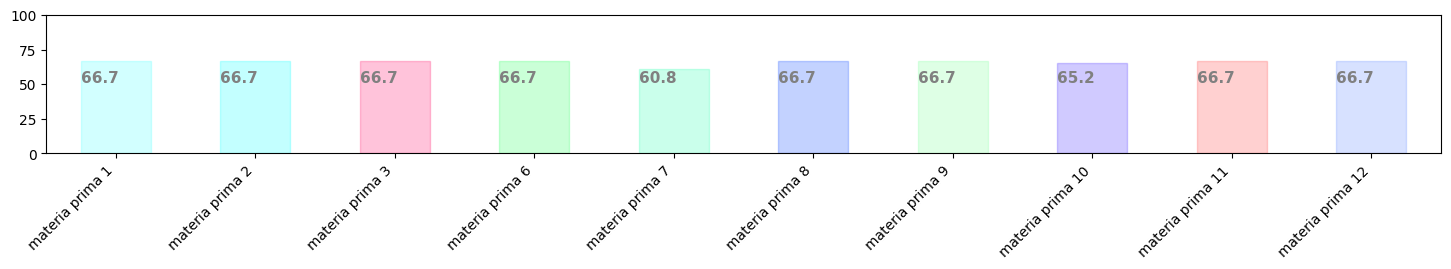
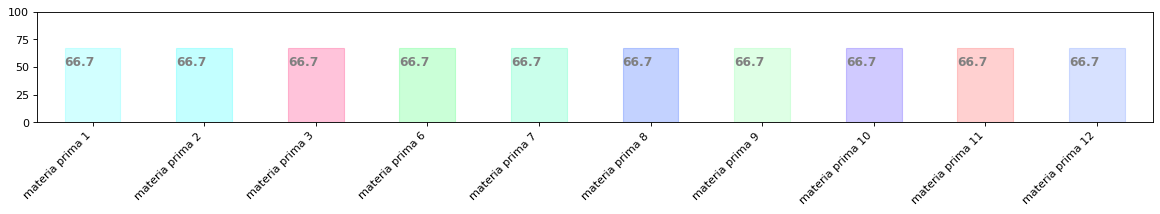
090321

diff --git a/kamaleao_kivy.py b/kamaleao_kivy.py
@@ -91,6 +91,8 @@ cursor = conn.cursor()
 conn_forms = sqlite3.connect('forms.db')
 cursor_forms = conn_forms.cursor()
 
+matplotlib.use('pdf')
+
 
 # tempo em sqlite
 # time_con =cursor_kamaleao.execute("SELECT datetime('now', 'localtime')")
@@ -160,7 +162,6 @@ class KamaleãoApp(App):
                     maxim = result[1]
                     atual = result[0]
                     tabela_update_porcento = [(atual / maxim) * 100, tabela[0]]
-                    print(tabela_update_porcento)
                     conn_kamaleao.execute("UPDATE materia_prima set porcento = ? WHERE nome = ?",
                                           tabela_update_porcento)
 
@@ -248,11 +249,10 @@ class KamaleãoApp(App):
                 formula_db = [nome_da_formula.text, formula_inteira]
                 try:
                     conn_kamaleao.execute("INSERT INTO formulas VALUES(?,?)", formula_db)
-                    result = cursor_kamaleao.execute("SELECT * FROM formulas")
-                    for f in result:
-                        print(f)
+
                 except:
-                    print("fórmula já existente")
+                    produto_ja_existente = Popup(title="Produto Já Existente",size_hint=(0.2,0.2))
+                    produto_ja_existente.open()
 
             # COMEÇO DA TELA PARA ADICIONAR UMA NOVA FÓRMULA #
 
@@ -345,7 +345,6 @@ class KamaleãoApp(App):
                 try:
                     ###### aqui a gente limpa o dict que foi transformado em str #####
                     formula_completa = cursor_kamaleao.fetchone()[1]
-                    print("aqui a gente limpa o dict que foi transformado em str ", formula_completa)
                     formula_completa = formula_completa.replace("{", '')
                     formula_completa = formula_completa.replace("}", '')
                     formula_completa = formula_completa.translate({ord("'"): None})
@@ -380,10 +379,10 @@ class KamaleãoApp(App):
                         esqueda_baixo_area_direita.add_widget(Label(text="{}   x   {}".format(i[0], i[1])))
                 except:
                     # aqui se deu ruim ainda tem que Criar uma tela pra avisar que deu.
-                    print("NOME NÃO EXISTE NO BANCO DE DADOS")
+                    produto_nao_existe = Popup(title="Produto não existe",size_hint=(0.2,0.2))
+                    produto_nao_existe.open()
 
             def produzir_func(instance):
-                print(formula_formatada)
                 # essa é a função do botão de produzir#
                 # primeira coisa que tem que fazer é declarar uma variável booleana#
                 # pra só produzir se todos os requirements forem satisfeitos
@@ -446,12 +445,9 @@ class KamaleãoApp(App):
                                 "SELECT * FROM relatorio_saida_materia_prima WHERE nome_mp = ? AND data = ?",
                                 verificar_se_ja_existe)
                             todas_infos = cursor_kamaleao.fetchall()
-                            print(todas_infos)
                             nome_mp = todas_infos[0][1]
                             quantidade = todas_infos[0][2]
-                            print("Quantidade antes: ", quantidade)
                             quantidade = todas_infos[0][2] + formula_formatada.get(i)
-                            print("Quantidade depois: ", quantidade)
                             sales_rate = todas_infos[0][3]
 
                             # ta dando erroa qui
@@ -459,14 +455,12 @@ class KamaleãoApp(App):
                             UPDATE relatorio_saida_materia_prima SET quantidade_saida = {}  WHERE nome_mp = ? AND data = ?
                             """.format(quantidade, achou), verificar_se_ja_existe)
 
-                            print("achou", achou)
                             try:
                                 cursor_kamaleao.execute(""" SELECT data,nome_mp FROM relatorio_saida_materia_prima WHERE nome_mp = ? AND data = ?
                                 ORDER BY data ASC """, verificar_se_ja_existe)
 
                                 primeira_data = [cursor_kamaleao.fetchone()[0]]
-                                print("CHEGOU AQUI")
-                                print(primeira_data)
+
 
                                 cursor_kamaleao.execute("SELECT julianday('now') - julianday(?)", primeira_data)
                                 delta = round(cursor_kamaleao.fetchone()[0], 4) - 0.72
@@ -480,7 +474,6 @@ class KamaleãoApp(App):
 
                                 sales_rate = soma / delta
 
-                                print(sales_rate)
                                 update_sales_rate = [round(sales_rate, 2), i, date]
 
                                 conn_kamaleao.execute(
@@ -490,7 +483,10 @@ class KamaleãoApp(App):
 
 
                             except Exception as e:
-                                print(e)
+                                ocorreu_um_erro = Popup(title="Ocorreu um erro.",size_hint=(0.2,0.2))
+                                ocorreu_um_erro.open()
+
+
                             # print(primeira_data)
 
 
@@ -498,16 +494,14 @@ class KamaleãoApp(App):
 
                         except:
 
-                            print(date)
+
                             tabela_pra_saleRate = [i, formula_formatada.get(i), date]
-                            print(tabela_pra_saleRate)
                             conn_kamaleao.execute("""
                             INSERT INTO relatorio_saida_materia_prima(
                             nome_mp,quantidade_saida,sales_rate,data)
                             VALUES(?,?,0,?)
                             """, tabela_pra_saleRate)
                             cursor_kamaleao.execute("SELECT * FROM relatorio_saida_materia_prima")
-                            print(cursor_kamaleao.fetchall())
 
                         esqueda_baixo_area_direita_tabela.clear()
                 else:
@@ -581,11 +575,8 @@ class KamaleãoApp(App):
         def producao_view(instance):
 
             menu.clear_widgets()
-            print(menu.size)
-            print(layout.size)
             width_calc = (layout.size[0] - 150) / 3.8
             heigt_calc = layout.size[1] / 1.73
-            print(width_calc, heigt_calc)
 
             menu_producao_layout = GridLayout(cols=3)
 
@@ -656,7 +647,8 @@ class KamaleãoApp(App):
                                                     lista_adicionar_materiaPrima_btt)
                             # conn_kamaleao.commit()
                         except:
-                            print("Nome já está no db")
+                            produto_ja_existente = Popup(title="Produto já existente",size_hint=(0.2,0.2))
+                            produto_ja_existente.open()
 
                     clr_picker = ColorPicker()
 
@@ -726,11 +718,8 @@ class KamaleãoApp(App):
                                     tabela_pro_execute[n] = "0.1"
 
                             # modificar materia prima
-                            print(tabela_pro_execute)
                             nome_pra_teste = [nome_botao]
                             cursor_kamaleao.execute("SELECT * from materia_prima WHERE nome =? ", nome_pra_teste)
-                            a = cursor_kamaleao.fetchone()
-                            print(a)
                             conn_kamaleao.execute(
                                 "UPDATE materia_prima SET estoque_maximo = ?,estoque_minimo =?,estoque_emergencial=?,"
                                 "rgb=?,estoque_atual=? WHERE nome = ?",
@@ -748,8 +737,6 @@ class KamaleãoApp(App):
                                                   tabela_update_porcento)
 
                             cursor_kamaleao.execute("SELECT * from materia_prima WHERE nome =? ", nome_pra_teste)
-                            c = cursor_kamaleao.fetchone()
-                            print(c)
                             refresh_mudar_valores()
 
                         clr_picker = ColorPicker()
@@ -912,9 +899,8 @@ class KamaleãoApp(App):
             # days_sales_inventory
 
             menu.clear_widgets()
+            menu_graficos = GridLayout(rows=2,spacing=0,padding=1,row_force_default=True, row_default_height=150)
             df = pd.read_sql_query("SELECT * from relatorios_fluxo", conn_kamaleao)
-
-            relatorios_menu_layout = GridLayout(cols=2)
 
             df.to_excel(r'teste_relatorios_fluxo.xlsx', index=False)
             # if sys.platform == "win32":
@@ -931,7 +917,6 @@ class KamaleãoApp(App):
             cursor_kamaleao.execute("SELECT * FROM materia_prima")
             tamanho = math.ceil(len(cursor_kamaleao.fetchall()) / 2)
 
-            print(tamanho)
             df = pd.read_sql_query("SELECT nome,porcento,rgb from materia_prima LIMIT {}".format(tamanho),
                                    conn_kamaleao)
             df.reset_index(drop=True, inplace=True)
@@ -940,7 +925,7 @@ class KamaleãoApp(App):
             cursor_kamaleao.execute('''SELECT rgb from materia_prima''')
             result = cursor_kamaleao.fetchall()
 
-            ax = df.plot.bar(x='nome', y='porcento', rot=0, figsize=(18, 1.8))
+            ax = df.plot.bar(x='nome', y='porcento', rot=0, figsize=(1, 10))
 
             childrenLS = ax.get_children()
             barlist = filter(lambda x: isinstance(x, matplotlib.patches.Rectangle), childrenLS)
@@ -963,11 +948,11 @@ class KamaleãoApp(App):
                 try:
                     cor = cores_pro_grafico[n]
                     i.set_color(cor)
-                    print("try:")
+
 
 
                 except Exception as e:
-                    print(e)
+                    pass
                 n += 1
 
             for i, v in enumerate(porcento):
@@ -984,10 +969,10 @@ class KamaleãoApp(App):
             plt.ylim(0, 100)
             ax.set(xlabel='')
             ax.plot()
-            plt.savefig("testando_plot", bbox_inches='tight')
+            plt.savefig("testando_plot", bbox_inches='tight',dpi=80)
 
             plt.close()
-            menu.add_widget(Image(source="testando_plot.png", size_hint=(None, None), size=(Window.size[0] - 150, 250)))
+            menu_graficos.add_widget(Image(source="testando_plot.png", size_hint=(None, None), size=(Window.size[0]-475, 160)))
             # ############ GRÁFICO 1 ############### #
 
             # ############ GRÁFICO 2 ############### #
@@ -999,7 +984,7 @@ class KamaleãoApp(App):
             cursor_kamaleao.execute('''SELECT rgb from materia_prima''')
             result = cursor_kamaleao.fetchall()
 
-            ax = df_2.plot.bar(x='nome', y='porcento', rot=0, figsize=(18, 1.8))
+            ax = df_2.plot.bar(x='nome', y='porcento', rot=0, figsize=(1, 1))
             porcento_2 = df_2["porcento"]
 
             childrenLS = ax.get_children()
@@ -1023,11 +1008,11 @@ class KamaleãoApp(App):
                 try:
                     cor = cores_pro_grafico[n]
                     i.set_color(cor)
-                    print("try:")
+
 
 
                 except Exception as e:
-                    print(e)
+                    pass
                 n += 1
 
             for i, v in enumerate(porcento_2):
@@ -1049,49 +1034,87 @@ class KamaleãoApp(App):
             ax.tick_params(axis='both', which='both', length=0)
             ax.plot()
 
-            plt.savefig("testando_plot_2", bbox_inches='tight')
+            plt.savefig("testando_plot_2", bbox_inches='tight',dpi=80)
 
             plt.close()
-            menu.add_widget(
-                Image(source="testando_plot_2.png", size_hint=(None, None), size=(Window.size[0] - 150, 250)))
+            menu_graficos.add_widget(
+                Image(source="testando_plot_2.png", size_hint=(None, None), size=(Window.size[0]-475, 155)))
+            menu.add_widget(menu_graficos)
 
             # ############ GRÁFICO 2 ############### #
 
-            metricas_layout = GridLayout(cols=2)
+            metricas_layout = GridLayout(cols=3)
 
-            sales_rate_layout = GridLayout(cols=2)
+            sales_rate_layout = GridLayout(cols=1, spacing=15, size_hint_y=None,size=(1000,1000))
+            sales_rate_layout.bind(height=layout.setter('height'))
 
-            days_sales_layout = GridLayout(cols=4)
+
+
+            days_sales_layout = GridLayout(cols=2, spacing=15, size_hint_y=None,size=(1000,1000))
+            days_sales_layout.bind(height=layout.setter('height'))
+
 
             cursor_kamaleao.execute(
                 "SELECT nome_mp, sales_rate FROM relatorio_saida_materia_prima ORDER BY nome_mp ASC")
 
             metricas_sales_rate = cursor_kamaleao.fetchall()
             for i in metricas_sales_rate:
-                print(i)
                 sales_rate_layout.add_widget(Label(text=str(i)))
 
-            metricas_layout.add_widget(sales_rate_layout)
+
 
             cursor_kamaleao.execute("SELECT nome, estoque_atual FROM materia_prima ORDER BY nome ASC ")
             nome_estoque_atual = cursor_kamaleao.fetchall()
-            for i in range(len(nome_estoque_atual)):
-                days_sales_layout.add_widget(Label(text=str(metricas_sales_rate[i][0])))
-                print(str(metricas_sales_rate[i][0]))
+            try:
+                for i in range(len(nome_estoque_atual)):
+                    days_sales_layout.add_widget(Label(text=str(metricas_sales_rate[i][0])))
 
-                try:
-                    days_sales_layout.add_widget(
-                        Label(text=str(round(nome_estoque_atual[i][1] / metricas_sales_rate[i][1], 2))))
                     try:
-                        print(str(nome_estoque_atual[i][1] / metricas_sales_rate[i][1]))
-                    except Exception as e:
-                        print(e)
-                except:
-                    days_sales_layout.add_widget(Label(text="0"))
+                        days_sales_layout.add_widget(
+                            Label(text=str(round(nome_estoque_atual[i][1] / metricas_sales_rate[i][1], 2))))
+                    except:
+                        days_sales_layout.add_widget(Label(text="0"))
+            except:
+                metricas_erro = Popup(title="nenhuma métrica foi encontrada",size_hint=(0.1,0.2))
+                metricas_erro.open()
 
-            metricas_layout.add_widget(days_sales_layout)
+            sales_rate_scroll = ScrollView(size_hint=(1, None), size=(200, 200))
 
-            menu.add_widget(relatorios_menu_layout)
+
+
+            sales_rate_scroll.add_widget(sales_rate_layout)
+
+            days_sales_scroll = ScrollView(size_hint=(1, None), size=(200, 200))
+
+            metricas_layout.add_widget(sales_rate_scroll)
+
+
+            days_sales_scroll.add_widget(days_sales_layout)
+            metricas_layout.add_widget(days_sales_scroll)
+
+            saidas_de_hoje = GridLayout(cols=1, spacing=15, size_hint_y=None,size=(1000,1000))
+
+
+            saidas_de_hoje_scroll = ScrollView(size_hint=(1, None), size=(200, 200))
+            cursor_kamaleao.execute("SELECT date('now', 'localtime')")
+
+            time_value = cursor_kamaleao.fetchone()[0]
+            cursor_kamaleao.execute("SELECT produto, quantidade FROM relatorios_fluxo WHERE dia LIKE '{}%'".format(time_value))
+
+            saidas_de_hoje_infos = cursor_kamaleao.fetchall()
+
+            for i in saidas_de_hoje_infos:
+                print(i)
+                saidas_de_hoje.add_widget(Label(text=str(i),color=(1,0,0,1)))
+
+            saidas_de_hoje_scroll.add_widget(saidas_de_hoje)
+
+            metricas_layout.add_widget(saidas_de_hoje_scroll)
+
+
+
+
+
             menu.add_widget(metricas_layout)
 
         def settings_view(instance):
@@ -1135,7 +1158,7 @@ class KamaleãoApp(App):
         ##############side bar #####################
 
         ###### menu #######
-        menu = GridLayout(cols=1, size_hint_x=None, width=Window.size[0] - 150)
+        menu = GridLayout(cols=1, size_hint_x=None, width=Window.size[0] - 150,spacing = 0)
 
         layout.add_widget(menu)
 
